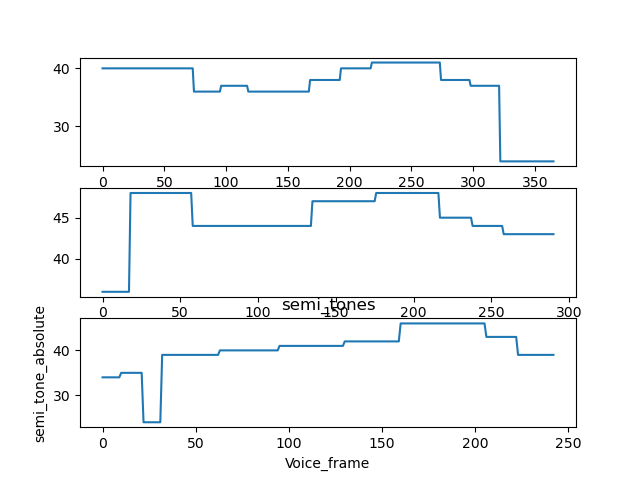
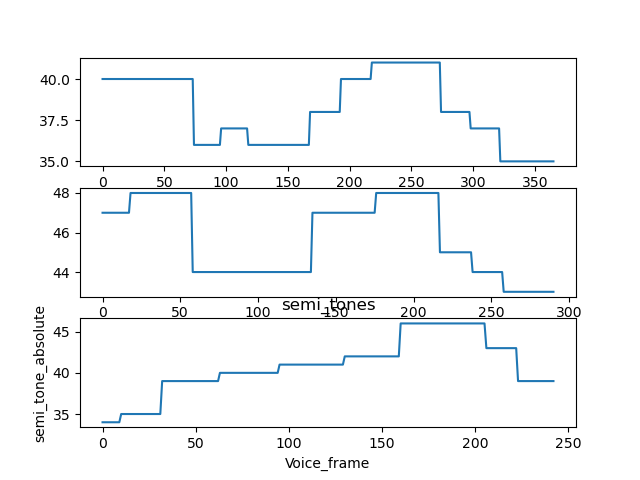
almost

diff --git a/assignment2/Feature_Extractor.py b/assignment2/Feature_Extractor.py
@@ -3,15 +3,13 @@ import numpy as np
 from matplotlib import pyplot as plt
 import math
 import statistics
+from collections import Counter
 
 
 def mean_nonzero(input_list):
     sublists = []
     sublist = []
-    sublist_zero = []
     for num in input_list:
-        # if num == 0:
-        #     sublist_zero.append(0)
         if num != 0:
             sublist.append(num)
         elif sublist:
@@ -26,6 +24,7 @@ def mean_nonzero(input_list):
     sublists = [elem for row in sublists for elem in row]
     # filter out the silence, and use the median value of non-zeros, make it a new list
     return sublists
+
 
 def normalized_intensity(frIsequence):
     pitch=frIsequence[0, :]
@@ -54,8 +53,6 @@ def filter_pitch(frIsequence):
     correlation = frIsequence[1, :]
     pitch = frIsequence[0, :]
     pitch_log, intensity_nor = normalized_intensity(frIsequence)
-
-    # filter out unvoiced frame based on intensity and correlation
     threshold_cor = 0.75
     threshold_intensity_nor = np.mean(intensity_nor)
 
@@ -63,15 +60,10 @@ def filter_pitch(frIsequence):
         if pitch_log[i] > np.log2(1046.502) or pitch_log[i] < np.log2(32.703) or intensity_nor[i] < threshold_intensity_nor or correlation[i] < threshold_cor:
             pitch_log[i] = 0 # define as unvoiced
             pitch[i] = 0
-    # subdivide the note based on non-zero value
 
     pitch = mean_nonzero(pitch)
     pitch_log = np.log2(pitch)
     return pitch, pitch_log
-
-
-    # test code in main(test pass)
-
 
 # list comprehension. elegant algorithm
 def note_name(semi_tone_relative):
@@ -99,15 +91,11 @@ def analysis_note(test_tone):
     # analysis each note
     octave_C = [32.703, 65.406, 130.813, 261.626, 523.251, 1046.502]  # C1-C6 frequency in HZ, C4->middle C
     octave_C_log = np.log2(octave_C)
-    # octave_C_log = [5, 6, 7, 8, 9, 10]
     semi_tones = []  # (5,12)
-    # print(octave_C_log)
+
 
     for i in range(len(octave_C) - 1):
         semi_tones.append(np.linspace(octave_C_log[i], octave_C_log[i + 1], 13)[:-1].tolist())
-
-    # semi_tones = [item for sublist in semi_tones for item in sublist]
-    # print(semi_tones)
 
     octave = 0
     for i, c in enumerate(octave_C):
@@ -115,14 +103,13 @@ def analysis_note(test_tone):
             octave = i + 1
             break
 
-    # print("The test tone belongs to octave C{}".format(octave))
     semitones_specific = semi_tones[octave - 1]
     test_tone_log = np.log2(test_tone)
     semi_tone_relative = 0
 
     for i, c in enumerate(semitones_specific):
         if i == len(semitones_specific) - 1:
-            # print(octave_C_log[octave])
+            semi_tone_relative = 11
             if test_tone_log - c > octave_C_log[octave] - test_tone_log:
                 octave = octave + 1
                 semi_tone_relative = 0
@@ -139,42 +126,28 @@ def analysis_note(test_tone):
     note = note_name(semi_tone_relative)
     return octave, semi_tone_relative, semitone_absolute, note
 
-from collections import Counter
-def semi_adjust(filter_pitch):
-    index_change = np.random.randint(0, len(filter_pitch), 3)
-    for i in index_change:
-        temp = 3
-        filter_pitch[i] = temp * filter_pitch[i]
 
+octave, semi_tone_relative, semitone_absolute, note = analysis_note(125.71896068623788)
+print(octave, semi_tone_relative, semitone_absolute, note)
+
+
+def semi_adjust(filter_pitch):
     semi_tone_absolute = np.zeros(len(filter_pitch))
 
     for i in range(len(filter_pitch)):
         if filter_pitch[i] != 0:
             _, _, semi_tone_absolute[i], _ = analysis_note(filter_pitch[i])
 
-    # transpose invariant
-    # relative interval should stay the same, all drag to C1
+    threshold = 5  # window length = (threshold-1)*2
+    for i in range(len(semi_tone_absolute)):
 
-    mid = np.median(semi_tone_absolute)
-    semi_drag = semi_tone_absolute - mid
+        if i - threshold + 1 < 0:
+            temp_list = list(semi_tone_absolute[:i + threshold - 1])
+        elif i + threshold - 1 > len(semi_tone_absolute) - 1:
+            temp_list = list(semi_tone_absolute[i-threshold+1:])
+        else:
+            temp_list = list(semi_tone_absolute[i-threshold+1:i+threshold-1])
 
-
-    # octave invariant(suddenly one or few frequency change)
-    # how to define a sudden jump note
-    # for i in range(len(semi_drag)):
-    #     if semi_drag[i] > 12 or semi_drag[i] < 12:    # limitation, how to perceive octave jump? worth thinking
-    #         semi_drag[i] = semi_drag[i] % 12
-
-    # for i in range(len(filter_pitch)):
-    #     if filter_pitch[i]
-    #  10,10,10,10,10,5,5,5,5,5,5,5,17,5,5,5,5,17,17,5,5,5,5,17,17,17
-
-    threshold = 15  # window length = (threshold-1)*2
-    for i in range(threshold, (len(semi_tone_absolute)-threshold)):
-        # print(i, i-threshold+1 ,i+threshold-1)
-        temp_list = list(semi_tone_absolute[i-threshold+1:i+threshold-1])
-        # if len(set(temp_list)) > 1:
-        #     semi_tone_absolute[i] = temp_list[0]
         count_dict = dict(Counter(temp_list))
         if len(list(count_dict.values())) > 1:
             min_element = list(count_dict.keys())[list(count_dict.values()).index(min(count_dict.values()))]
@@ -182,7 +155,8 @@ def semi_adjust(filter_pitch):
             if min_element == semi_tone_absolute[i] and count_dict[min_element] < threshold:
                 semi_tone_absolute[i] = max_element
 
-
+    mid = np.median(semi_tone_absolute)
+    semi_drag = semi_tone_absolute - mid
 
     return semi_tone_absolute, semi_drag
 

diff --git a/assignment2/main.py b/assignment2/main.py
@@ -90,8 +90,8 @@ frequence2 = np.arange(0,frame_num2)
 frequence3 = np.arange(0,frame_num3)
 
 
-print(frIsequence1.shape,type(frIsequence1),'dimension of frIsequence')
-print(frIsequence1[:,0:5],'print the first five frames')
+# print(frIsequence1.shape,type(frIsequence1),'dimension of frIsequence')
+# print(frIsequence1[:,0:5],'print the first five frames')
 # ----------------------------------------------------
 
 # plot the pitch
@@ -202,7 +202,7 @@ plt.show()
 # ----------------------------------------------------
 
 filter_pitch1, filter_pitch1_log = filter_pitch(frIsequence1)
-print(filter_pitch1_log)
+# print(filter_pitch1_log)
 filter_pitch2, filter_pitch2_log = filter_pitch(frIsequence2)
 filter_pitch3, filter_pitch3_log = filter_pitch(frIsequence3)
 
@@ -244,8 +244,20 @@ semi_tone_absolute1, semi_drag1 = semi_adjust(filter_pitch1)
 semi_tone_absolute2, semi_drag2 = semi_adjust(filter_pitch2)
 semi_tone_absolute3, semi_drag3 = semi_adjust(filter_pitch3)
 
+for i in range(len(semi_drag1)):
+    semi_drag1[i] = (semi_drag1[i] - np.min(np.array(semi_drag1)))/(np.max(np.array(semi_drag1) - np.min(np.array(semi_drag1))))
+for i in range(len(semi_drag2)):
+    semi_drag2[i] = (semi_drag2[i] - np.min(np.array(semi_drag2)))/(np.max(np.array(semi_drag2) - np.min(np.array(semi_drag2))))
+for i in range(len(semi_drag3)):
+    semi_drag3[i] = (semi_drag3[i] - np.min(np.array(semi_drag3)))/(np.max(np.array(semi_drag3) - np.min(np.array(semi_drag3))))
+
+
+
+
+
 print(semi_drag1,'semitone1')
-print(semi_drag2,'semitone1')
+print(semi_drag2,'semitone2')
+print(semi_drag3,'semitone3')
 
 plt.figure(8)
 plt.subplot(3, 1, 1)
@@ -269,17 +281,17 @@ plt.plot(frequence2_temp, semi_drag2)
 plt.subplot(3, 1, 3)
 plt.plot(frequence3_temp, semi_drag3)
 plt.xlabel('Voice_frame')
-plt.ylabel('semi_tone_relative')
+plt.ylabel('semi_tone_drag')
 plt.title('semi_tones')
 plt.savefig('figures/semitones_drag.png')
 plt.show()
 
-# Finally feature -> semitones_drag!!!! discrete feature
+# Finally feature -> semitones_normalized!!!! discrete feature
 frIsequence1 = GetMusicFeatures.GetMusicFeatures(data1, sample_rate1)
 filter_pitch1, _ = filter_pitch(frIsequence1)
+
 semi_absolute1 , semi_drag1 = semi_adjust(filter_pitch1)
-print(semi_absolute1, '\n', 'absolute tone original')
-print(semi_drag1, '\n', 'trans original')
+
 
 
 # test if transposition invariant
@@ -287,32 +299,27 @@ frIsequence1_trans = np.copy(frIsequence1)
 shift = 5
 for i in range(0, frame_num2):
     # f2 = f1 * (2 ^ (1 / 12)) ^ n
-    frIsequence1_trans[0,i] = frIsequence1[0,i] * 2**(shift/12)
+    frIsequence1_trans[0, i] = frIsequence1[0, i] * 2 ** (shift/12)
 filter_pitch1_trans, _ = filter_pitch(frIsequence1_trans)
 semi_trans1_absolute, semi_drag1_trans = semi_adjust(filter_pitch1_trans)
-print(semi_trans1_absolute, '\n', 'absolute tone trans')
-print(semi_drag1_trans, '\n', 'trans semi')
+# print(semi_trans1_absolute, '\n', 'absolute tone trans')
+# print(semi_drag1_trans, '\n', 'trans semi')
 
 # test if volume invariant
-frIsequence1_vol = GetMusicFeatures.GetMusicFeatures(2 * data1, sample_rate1)
+
+frIsequence1_vol = GetMusicFeatures.GetMusicFeatures(1.5*data1, sample_rate1)
 filter_pitch1_vol, _ = filter_pitch(frIsequence1_vol)
-_, semi_drag1_vol = semi_adjust(filter_pitch1_vol)
-
-# test if octave invariant
-frIsequence1_octave = np.copy(frIsequence1)
-random_numbers = np.random.randint(0, frame_num1, size=5)
-print(random_numbers)       # randomly choose 10 frames to octave jump (2 octaves, *4)
-for i in range(len(random_numbers)):
-    frIsequence1_octave[0, random_numbers[i]] = 4 * frIsequence1[0, random_numbers[i]]
-filter_pitch1_octave, _ = filter_pitch(frIsequence1_octave)
-_, semi_drag1_octave = semi_adjust(filter_pitch1_octave)
-
+voice_frame_num1_vol = len(filter_pitch1_vol)
+frequence1_temp_vol = np.arange(0, voice_frame_num1_vol)
+semi_absolute1_vol , semi_drag1_vol = semi_adjust(filter_pitch1_vol)
 plt.figure(10)
 plt.plot(frequence1_temp, semi_drag1)
-# plt.plot(frequence1_temp, semi_drag1_octave)
-plt.plot(frequence1_temp, semi_drag1_trans)
-
-# plt.subplot(3,1,3)
-# plt.plot(frequence1_temp, semi_drag1_vol)
-plt.savefig('figures/variation.png')
+plt.plot(frequence1_temp_vol, semi_drag1_vol)
+plt.xlabel('frame_num')
+plt.ylabel('semi_normalized')
+plt.savefig('figures/volumn_change.png')
 plt.show()
+
+# test if octave invariant
+# already in the program
+

diff --git a/assignment2/test.py b/assignment2/test.py
@@ -39,17 +39,6 @@ for i in range(0, frame_num1):
     frIsequence1_trans[0, i] = frIsequence1[0, i] * 2**(shift/12)
 
 pitch1_trans = frIsequence1_trans[0, :]
-# print(type(pitch1_trans),'what pitch1 trans type')
-# check where zero occurs
-# if np.any(pitch1 == 0):
-#     print("Zero exists in the pitch1.")
-# else:
-#     print("Zero does not exist in pitch1.")
-#
-# if np.any(pitch1_trans == 0):
-#     print("Zero exists in the pitch1_trans.")
-# else:
-#     print("Zero does not exist in pitch1_trans.")
 
 
 # Feature
@@ -57,7 +46,6 @@ pitch_log1, intensity_nor1 = normalized_intensity(frIsequence1)
 filter_pitch1, filter_pitch1_log = filter_pitch(frIsequence1)
 
 print(filter_pitch1, '\n', 'filter_pitch value')
-# print(set(filter_pitch1), '\n', 'filter_pitch value')
 
 voice_frame_num1 = len(filter_pitch1)
 frequence1_temp = np.arange(0, voice_frame_num1)
@@ -74,9 +62,6 @@ with open('notes.txt', 'w') as file:
     for item in note:
         file.write(f"{item}")
 
-# print(semi_drag1, '\n', 'original drag')
-
-
 
 pitch_log1_trans, intensity_nor1_trans = normalized_intensity(frIsequence1_trans)
 filter_pitch1_trans, filter_pitch1_trans_log = filter_pitch(frIsequence1_trans)
@@ -85,15 +70,6 @@ semi_absolute1_trans, semi_drag1_trans = semi_adjust(filter_pitch1_trans)
 
 voice_frame_num1_trans = len(filter_pitch1_trans)
 frequence1_temp_trans = np.arange(0, voice_frame_num1_trans)
-
-
-print(semi_absolute1_trans, '\n', 'absolute tone trans')
-# print(semi_drag1_trans, '\n', 'trans drag')
-
-#
-# gap1 = np.max(pitch_log1)-np.min(pitch_log1)
-# gap1_trans = np.max(pitch_log1_trans)-np.min(pitch_log1_trans)
-# print(gap1, gap1_trans,'gap')
 
 plt.figure(figsize=[10,15])
 plt.plot(frequence1_temp, filter_pitch1)
@@ -115,7 +91,6 @@ plt.savefig('figures/filter_pitch_log_test.png')
 plt.show()
 #
 
-
 plt.figure(figsize=[10,15])
 plt.plot(frequence1_temp, semi_absolute1)
 plt.plot(frequence1_temp, semi_absolute1_trans)
@@ -134,21 +109,3 @@ plt.ylabel('semi-drag')
 plt.title('melody 1 and trans')
 plt.savefig('figures/semitones_drag_test.png')
 plt.show()
-
-# #
-# octave_C = [32.703, 65.406, 130.813, 261.626, 523.251, 1046.502]  # C1-C6 frequency in HZ, C4->middle C
-# octave_C_log = np.log2(octave_C)
-# x = np.linspace(5.0313135, 6.03135108, 12)
-# print(x)
-# print(octave_C_log)
-
-# test_note = 2**7.948
-# test_note2 = 2**8
-# print(test_note)
-# print(test_note2)
-octave, semi_tone_relative, semitone_absolute, note = analysis_note(126)
-print(octave, semi_tone_relative, semitone_absolute, note)
-
-#
-# octave2, semi_tone_relative2, semitone_absolute2, note2 = analysis_note(test_note2)
-# print(octave2, semi_tone_relative2, semitone_absolute2, note2)
